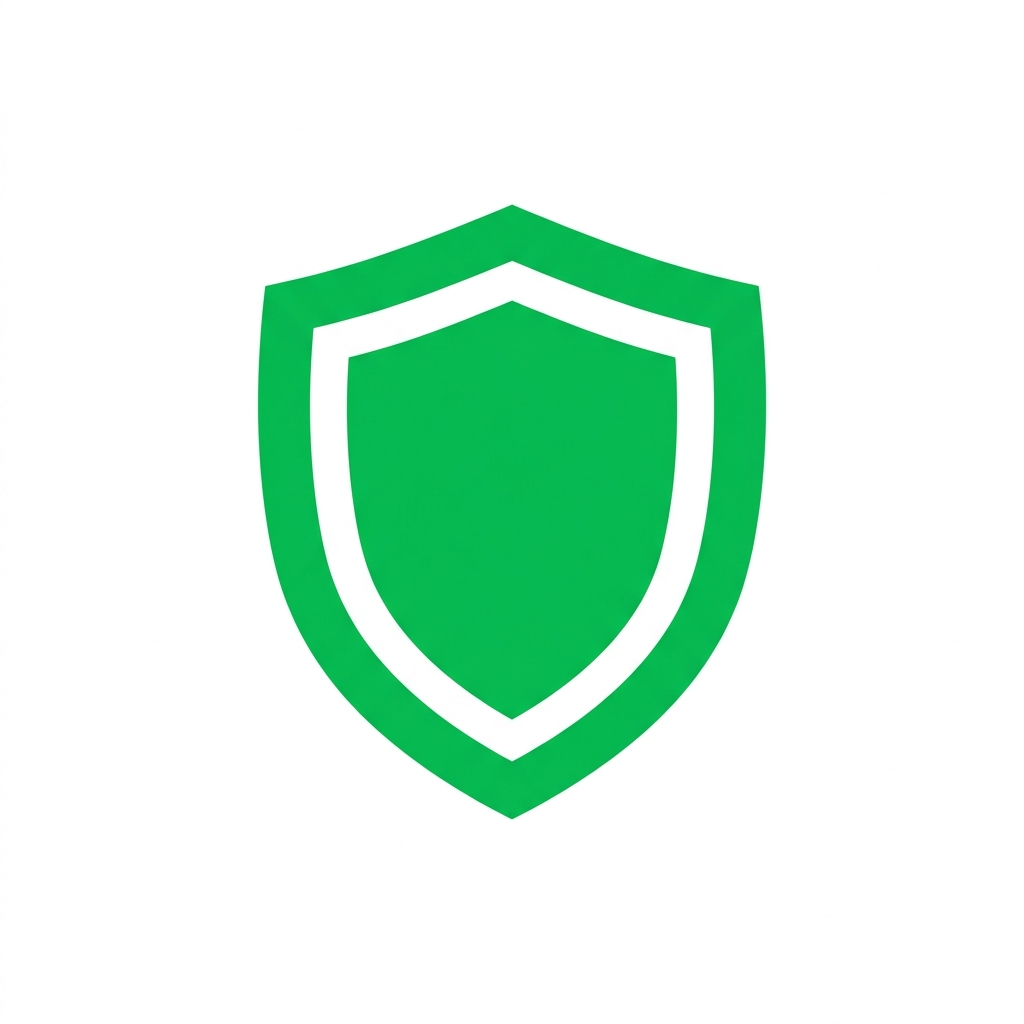
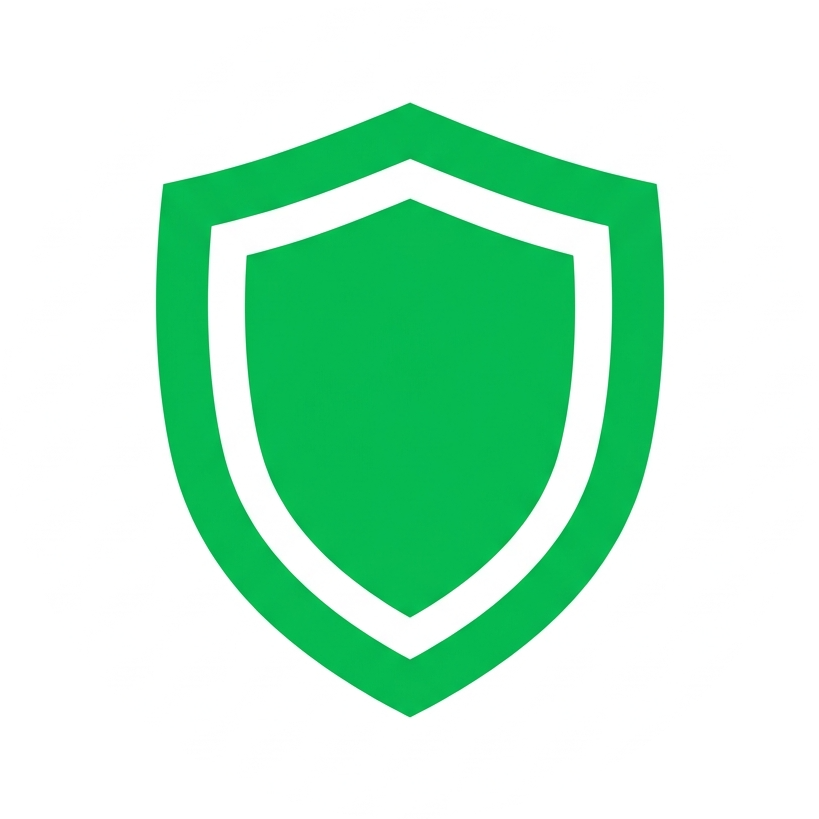
updated

Changed region(s): [[0.1832, 0.1221, 0.8242, 0.8852]]

diff --git a/src/app/page.tsx b/src/app/page.tsx
@@ -244,7 +244,7 @@ export default function HomePage() {
         </div>
 
         {/* Live Diagnostics Badges Row */}
-        <div className="grid grid-cols-2 md:grid-cols-4 lg:grid-cols-8 gap-4 pt-8">
+        <div className="grid grid-cols-2 md:grid-cols-4 gap-4 pt-8">
           {[
             { icon: CheckCircle, text: 'SPF Record' },
             { icon: CheckCircle, text: 'DKIM Align' },
@@ -439,38 +439,29 @@ export default function HomePage() {
             </p>
           </div>
 
-          <div className="grid md:grid-cols-2 gap-8 pt-4">
+          <div className="max-w-2xl mx-auto pt-4">
             <div className="bg-[#0f1729]/65 border border-[#1e2d4a]/75 rounded-3xl p-8 hover:border-[#00ff88]/30 transition-all">
-              <h3 className="font-syne font-bold text-xl text-white mb-3 flex items-center gap-2">
-                <span className="h-2 w-2 rounded-full bg-[#00ff88]" /> No Fake Reviews, Ever
-              </h3>
-              <p className="text-[#8b9fc0] text-sm leading-relaxed">
-                Many online platforms generate artificial statistics or duplicate review profiles to manufacture instant trust. We refuse to engage in these practices. We do not manufacture numbers; our code speaks for itself, and we rely entirely on direct technical value.
-              </p>
-            </div>
-
-            <div className="bg-[#0f1729]/65 border border-[#1e2d4a]/75 rounded-3xl p-8 hover:border-[#00ff88]/30 transition-all">
-              <h3 className="font-syne font-bold text-xl text-white mb-3 flex items-center gap-2">
+              <h3 className="font-syne font-bold text-xl text-white mb-3 flex items-center gap-2 justify-center sm:justify-start">
                 <span className="h-2 w-2 rounded-full bg-[#00ff88]" /> Plain-English Simplicity
               </h3>
-              <p className="text-[#8b9fc0] text-sm leading-relaxed">
+              <p className="text-[#8b9fc0] text-sm leading-relaxed text-center sm:text-left">
                 Email server configurations can be incredibly confusing. We built InboxFixer to decode complex cryptographic key selectors, includes, and record syntax errors into plain, simple instructions, empowering you to manage your own domain authentication records.
               </p>
             </div>
           </div>
 
           <div className="bg-gradient-to-r from-[#00ff88]/5 to-transparent border border-[#00ff88]/20 rounded-3xl p-8 flex flex-col md:flex-row justify-between items-center gap-6">
-            <div className="space-y-2">
-              <h3 className="font-syne font-bold text-lg text-white">Join the Early Adopter Program</h3>
+            <div className="space-y-2 text-center md:text-left">
+              <h3 className="font-syne font-bold text-lg text-white">Join InboxFixer Today</h3>
               <p className="text-xs text-[#8b9fc0] max-w-xl">
-                Be a part of a community that values honest, open-source software. Try our tool completely free today, and help us grow by sending us your thoughts directly!
+                Be a part of a community that values honest, reliable, and secure domain auditing software. Try our tool completely free today, and protect your email sender reputation!
               </p>
             </div>
             <a 
               href="/auth/signup" 
               className="bg-[#00ff88] text-[#0a0f1e] px-6 py-3 rounded-xl font-syne font-bold hover:bg-[#00dd77] active:scale-[0.98] transition-all text-sm whitespace-nowrap shrink-0"
             >
-              Join Early Beta Free
+              Get Started Free
             </a>
           </div>
 

diff --git a/scripts/seed_80_blogs.js b/scripts/seed_80_blogs.js
@@ -764,8 +764,7 @@ const finalBlogs = [];
 
 // Push the first 10 custom blogs
 finalBlogs.push(...BLOG_TOPICS.map((b, index) => {
-  const photoId = UNSPLASH_IDS[index % UNSPLASH_IDS.length];
-  const imageUrl = `https://images.unsplash.com/photo-${photoId}?w=800&auto=format&fit=crop`;
+  const imageUrl = `/blog-images/blog-${index + 1}.svg`;
   return {
     id: `blog-${index + 1}`,
     slug: b.slug,
@@ -784,8 +783,7 @@ finalBlogs.push(...BLOG_TOPICS.map((b, index) => {
 // Push the programmatically generated high-quality 70 blogs
 ADDITIONAL_TOPICS.forEach((topic, i) => {
   const index = i + 10;
-  const photoId = UNSPLASH_IDS[index % UNSPLASH_IDS.length];
-  const imageUrl = `https://images.unsplash.com/photo-${photoId}?w=800&auto=format&fit=crop`;
+  const imageUrl = `/blog-images/blog-${index + 1}.svg`;
   
   const slug = topic.title.toLowerCase()
     .replace(/[^a-z0-9 ]/g, "")

diff --git a/src/components/ReviewCountBadge.tsx b/src/components/ReviewCountBadge.tsx
@@ -11,9 +11,6 @@ export default function ReviewCountBadge() {
         <CheckCircle2 size={11} className="text-[#00ff88]" />
         <span className="text-[10px] font-mono text-[#00ff88] font-bold uppercase">100% Transparent</span>
       </div>
-      <span className="text-[10px] font-mono text-[#6b7fa8] pl-1 border-l border-[#1e2d4a]">
-        Early Adopter Beta
-      </span>
     </div>
   );
 }